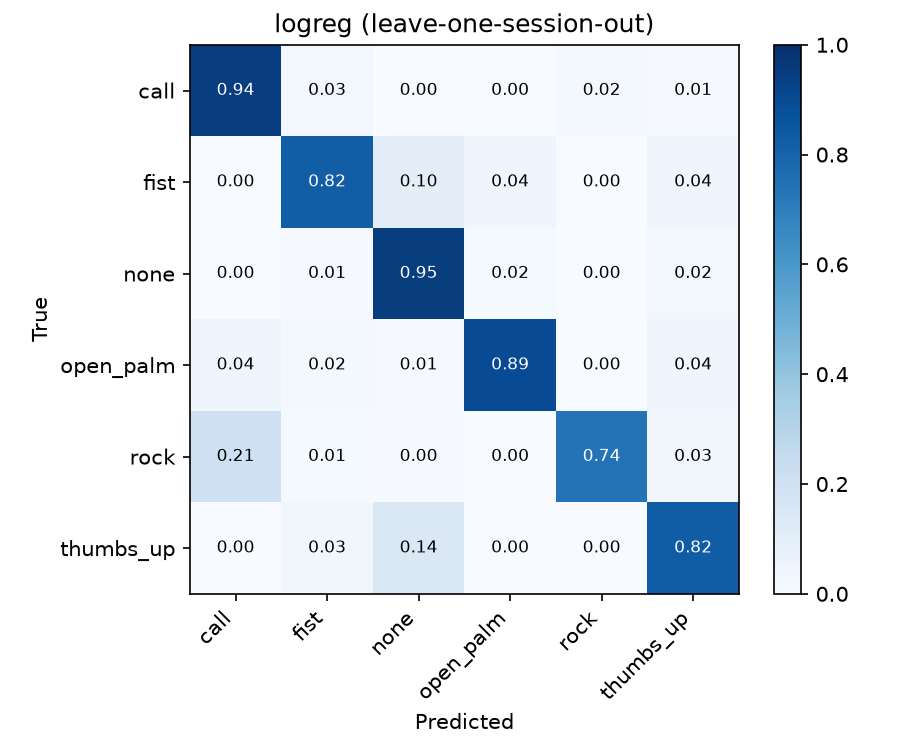
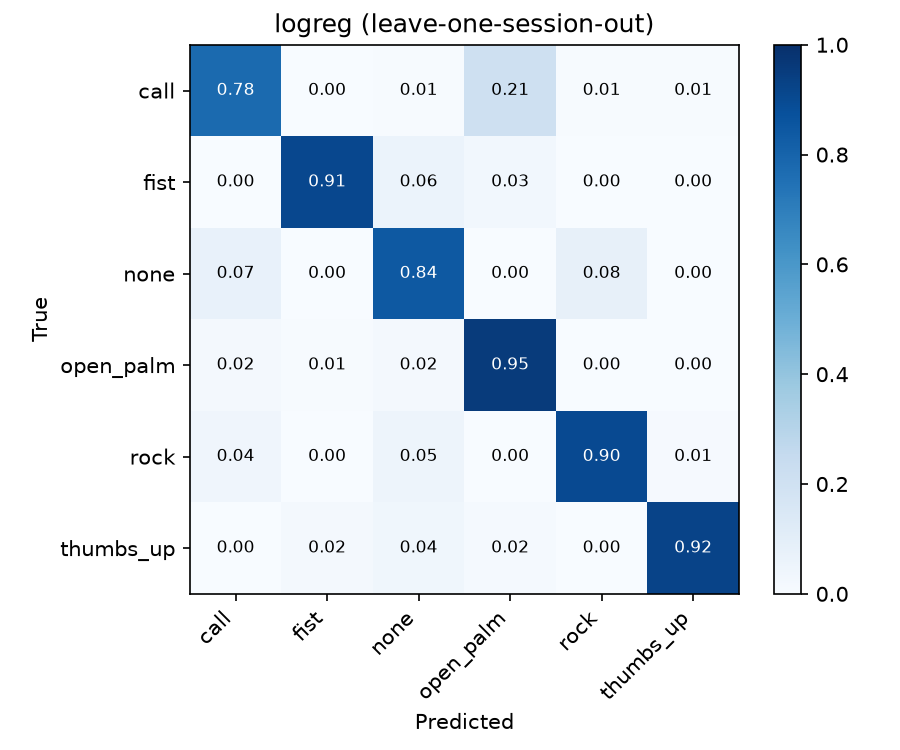
Reduce false shortcut triggers: hard-negative mining and pose gating
Offline replay of the runtime pipeline over recorded 'none' clips gave
zero false triggers regardless of thresholds, so live false triggers come
from situations absent from the data. Press 'n' after a false trigger to
save the last 1.5 s as 'none' samples for retraining. Also ignore poses
while the hand is partly off-screen or moving faster than max_speed.

diff --git a/handsfree/app.py b/handsfree/app.py
@@ -8,7 +8,8 @@ from handsfree.actions import MouseController, press_keys, press_media, validate
 from handsfree.classifier import GestureClassifier
 from handsfree.config import Config, load_config
 from handsfree.gestures import GestureInterpreter, GestureState, Intent, IntentKind, Mode
-from handsfree.shortcuts import ShortcutEngine, ShortcutEvent
+from handsfree.hardneg import HardNegativeRecorder
+from handsfree.shortcuts import MotionGate, ShortcutEngine, ShortcutEvent, hand_in_frame
 from handsfree.tracker import (
     HAND_CONNECTIONS,
     INDEX_TIP,
@@ -156,11 +157,14 @@ def run(cfg: Config, dry_run: bool = False, verbose: bool = False):
     mouse = MouseController(cfg.mouse)
     classifier = load_classifier(cfg)
     shortcuts = ShortcutEngine(cfg.shortcuts)
+    motion = MotionGate(cfg.shortcuts.max_speed)
+    hardneg = HardNegativeRecorder()
 
     fps, last_t = 0.0, time.perf_counter()
     last_mode = Mode.IDLE
     paused = False
-    print("HandsFree running. Press 'q' in the preview window to quit.")
+    print("HandsFree running. Press 'q' in the preview window to quit; "
+          "press 'n' right after a false shortcut trigger to save it as a 'none' example.")
     if dry_run:
         print("Dry run: gestures are recognized but the mouse is not controlled.")
     try:
@@ -178,9 +182,14 @@ def run(cfg: Config, dry_run: bool = False, verbose: bool = False):
             hand = hands[0] if hands else None
             intents = gestures.update(hand, now)
 
+            h, w = frame.shape[:2]
+            hardneg.push(hand, now, (w, h))
             label, conf = classifier.predict(hand) if classifier else (None, 0.0)
-            # Shortcut poses only count while no mouse gesture is in progress.
-            if gestures.state.mode is not Mode.IDLE:
+            still = motion.update(hand, now)
+            # Shortcut poses only count for a still, fully visible hand with no mouse gesture
+            # in progress.
+            if (gestures.state.mode is not Mode.IDLE or hand is None or not still
+                    or not hand_in_frame(hand, w, h)):
                 label, conf = None, 0.0
             events = shortcuts.update(label, conf, now)
             if shortcuts.candidate is not None:
@@ -209,8 +218,13 @@ def run(cfg: Config, dry_run: bool = False, verbose: bool = False):
                 cv2.imshow(WINDOW, frame)
                 if cfg.ui.always_on_top:
                     cv2.setWindowProperty(WINDOW, cv2.WND_PROP_TOPMOST, 1)
-                if cv2.waitKey(1) & 0xFF == ord("q"):
+                key = cv2.waitKey(1) & 0xFF
+                if key == ord("q"):
                     break
+                if key == ord("n"):
+                    saved = hardneg.save_recent()
+                    print(f"Saved {saved} frames as 'none' to {hardneg.path} "
+                          f"(retrain with tools/train.py)")
     finally:
         mouse.release()
         cap.release()

diff --git a/handsfree/hardneg.py b/handsfree/hardneg.py
@@ -1,0 +1,45 @@
+"""Hard-negative mining: save the frames that led to a false shortcut trigger as `none`."""
+
+import time
+from collections import deque
+from pathlib import Path
+
+import numpy as np
+
+from handsfree.tracker import Hand
+
+
+class HardNegativeRecorder:
+    def __init__(self, data_dir: str | Path = "data/gestures", window_s: float = 1.5):
+        self.window_s = window_s
+        self.path = Path(data_dir) / f"hardneg-{time.strftime('%Y%m%d-%H%M%S')}.npz"
+        self._recent: deque[tuple[float, Hand]] = deque()
+        self._saved: list[tuple[float, Hand]] = []
+        self.frame_size = (0, 0)
+
+    def push(self, hand: Hand | None, t: float, frame_size: tuple[int, int]):
+        self.frame_size = frame_size
+        if hand is not None:
+            self._recent.append((t, hand))
+        while self._recent and t - self._recent[0][0] > self.window_s:
+            self._recent.popleft()
+
+    def save_recent(self) -> int:
+        """Append the buffered frames as `none` samples and write the session file."""
+        new = list(self._recent)
+        self._recent.clear()
+        if not new:
+            return 0
+        self._saved += new
+        hands = [h for _, h in self._saved]
+        self.path.parent.mkdir(parents=True, exist_ok=True)
+        np.savez_compressed(
+            self.path,
+            pixels=np.stack([h.pixels for h in hands]),
+            landmarks=np.stack([h.landmarks for h in hands]),
+            handedness=np.array([h.handedness for h in hands]),
+            labels=np.array(["none"] * len(hands)),
+            timestamps=np.array([t for t, _ in self._saved]),
+            frame_size=np.array(self.frame_size),
+        )
+        return len(new)

diff --git a/tests/test_gating.py b/tests/test_gating.py
@@ -1,0 +1,36 @@
+import numpy as np
+from handgen import H, W, make_hand
+
+from handsfree.hardneg import HardNegativeRecorder
+from handsfree.shortcuts import MotionGate, hand_in_frame
+
+
+def test_hand_in_frame_rejects_partially_visible_hand():
+    assert hand_in_frame(make_hand(), W, H)
+    assert not hand_in_frame(make_hand(dx=-300), W, H)  # thumb pushed off the left edge
+    assert not hand_in_frame(make_hand(dy=100), W, H)  # wrist below the bottom edge
+
+
+def test_motion_gate_blocks_fast_hand_and_recovers():
+    gate = MotionGate(max_speed=1.5)
+    assert not gate.update(None, 0.0)
+    gate.update(make_hand(), 0.0)
+    # 60 px per frame at 30 fps with a 100 px palm = 18 palm lengths/s
+    moving = [gate.update(make_hand(dx=60 * i), i / 30) for i in range(1, 6)]
+    assert not any(moving)
+    resting = [gate.update(make_hand(dx=300), 0.2 + i / 30) for i in range(1, 15)]
+    assert resting[-1]
+
+
+def test_hard_negative_recorder_saves_window_as_none(tmp_path):
+    rec = HardNegativeRecorder(tmp_path, window_s=1.0)
+    for i in range(60):  # 2 s of frames; only the last second should be kept
+        rec.push(make_hand(dx=i), i / 30, (W, H))
+    rec.push(None, 2.0, (W, H))
+    assert rec.save_recent() == 30
+    d = np.load(rec.path)
+    assert set(d["labels"]) == {"none"} and d["pixels"].shape == (30, 21, 2)
+    assert rec.save_recent() == 0  # buffer was consumed
+    rec.push(make_hand(), 3.0, (W, H))
+    assert rec.save_recent() == 1
+    assert len(np.load(rec.path)["labels"]) == 31

diff --git a/handsfree/shortcuts.py b/handsfree/shortcuts.py
@@ -1,6 +1,41 @@
 from dataclasses import dataclass
 
+import numpy as np
+
 from handsfree.config import ShortcutConfig
+from handsfree.tracker import WRIST, Hand
+
+MIDDLE_MCP = 9
+
+
+def hand_in_frame(hand: Hand, width: int, height: int) -> bool:
+    """False while the hand is entering or leaving: MediaPipe guesses off-screen landmarks,
+    and a half-visible hand often looks like a fist."""
+    x, y = hand.pixels[:, 0], hand.pixels[:, 1]
+    return bool((x >= 0).all() and (y >= 0).all() and (x < width).all() and (y < height).all())
+
+
+class MotionGate:
+    """Tracks wrist speed in palm lengths per second; deliberate poses are held still."""
+
+    def __init__(self, max_speed: float):
+        self.max_speed = max_speed
+        self.speed = 0.0
+        self._prev: tuple[np.ndarray, float] | None = None
+
+    def update(self, hand: Hand | None, t: float) -> bool:
+        """Returns True if the hand is still enough for a pose to count."""
+        if hand is None:
+            self._prev = None
+            self.speed = 0.0
+            return False
+        wrist = hand.pixels[WRIST].astype(float)
+        palm = max(float(np.linalg.norm(hand.pixels[MIDDLE_MCP] - hand.pixels[WRIST])), 1e-6)
+        if self._prev is not None and t > self._prev[1]:
+            raw = float(np.linalg.norm(wrist - self._prev[0])) / palm / (t - self._prev[1])
+            self.speed = 0.5 * self.speed + 0.5 * raw
+        self._prev = (wrist, t)
+        return self.speed <= self.max_speed
 
 
 @dataclass

diff --git a/handsfree/config.py b/handsfree/config.py
@@ -50,6 +50,7 @@ class ShortcutConfig:
     min_confidence: float = 0.8
     hold_s: float = 0.4
     cooldown_s: float = 1.0
+    max_speed: float = 1.5
     bindings: dict = field(default_factory=dict)
 
 

diff --git a/docs/TUNING.zh-CN.md b/docs/TUNING.zh-CN.md
@@ -231,10 +231,16 @@ python -m handsfree --dry-run
 
 画面右下角会显示识别到的手势和置信度，保持手势时会出现绿色进度条，满了就触发。暂停时画面四周会出现红框和 `PAUSED`。
 
+**误触发的处理办法：按 `n`。** 程序会一直缓存最近 1.5 秒的手部数据。发现误触发后立刻按 `n`，这段数据就会存成 `none` 类的样本（文件名 `hardneg-*.npz`）。多收集几次之后重新运行 `tools/train.py`，模型就学会了你实际使用中那些"不是手势"的情况。这比调参数有效得多：在录好的 `none` 数据上离线模拟，误触发本来就是 0，说明实际中误触发的情形是训练数据里没有的，只能靠补数据。
+
+另外有两道自动门控：手部分在画面外时、手腕移动速度超过 `max_speed` 时，都不会识别快捷键，因为刻意做的手势一定是完整可见且相对静止的。
+
 | 现象 | 调整 |
 | --- | --- |
+| 偶尔误触发 | 误触发后按 `n`，收集 5–10 次后重新训练 |
 | 某两类经常混淆（看混淆矩阵） | 针对这两类多录一些数据，重新训练 |
 | 做指向、捏合时误触发快捷键 | 多录 `none`；或调高 `shortcuts.min_confidence` |
+| 手稍微动一下就不识别 | 调大 `shortcuts.max_speed` |
 | 手势明明做对了却不触发 | 调低 `min_confidence`；或看画面上的置信度，考虑补录数据 |
 | 要保持太久才触发 | 调小 `shortcuts.hold_s` |
 | 识别结果在两类之间跳来跳去 | 调大 `shortcuts.smoothing`（如 0.8） |
